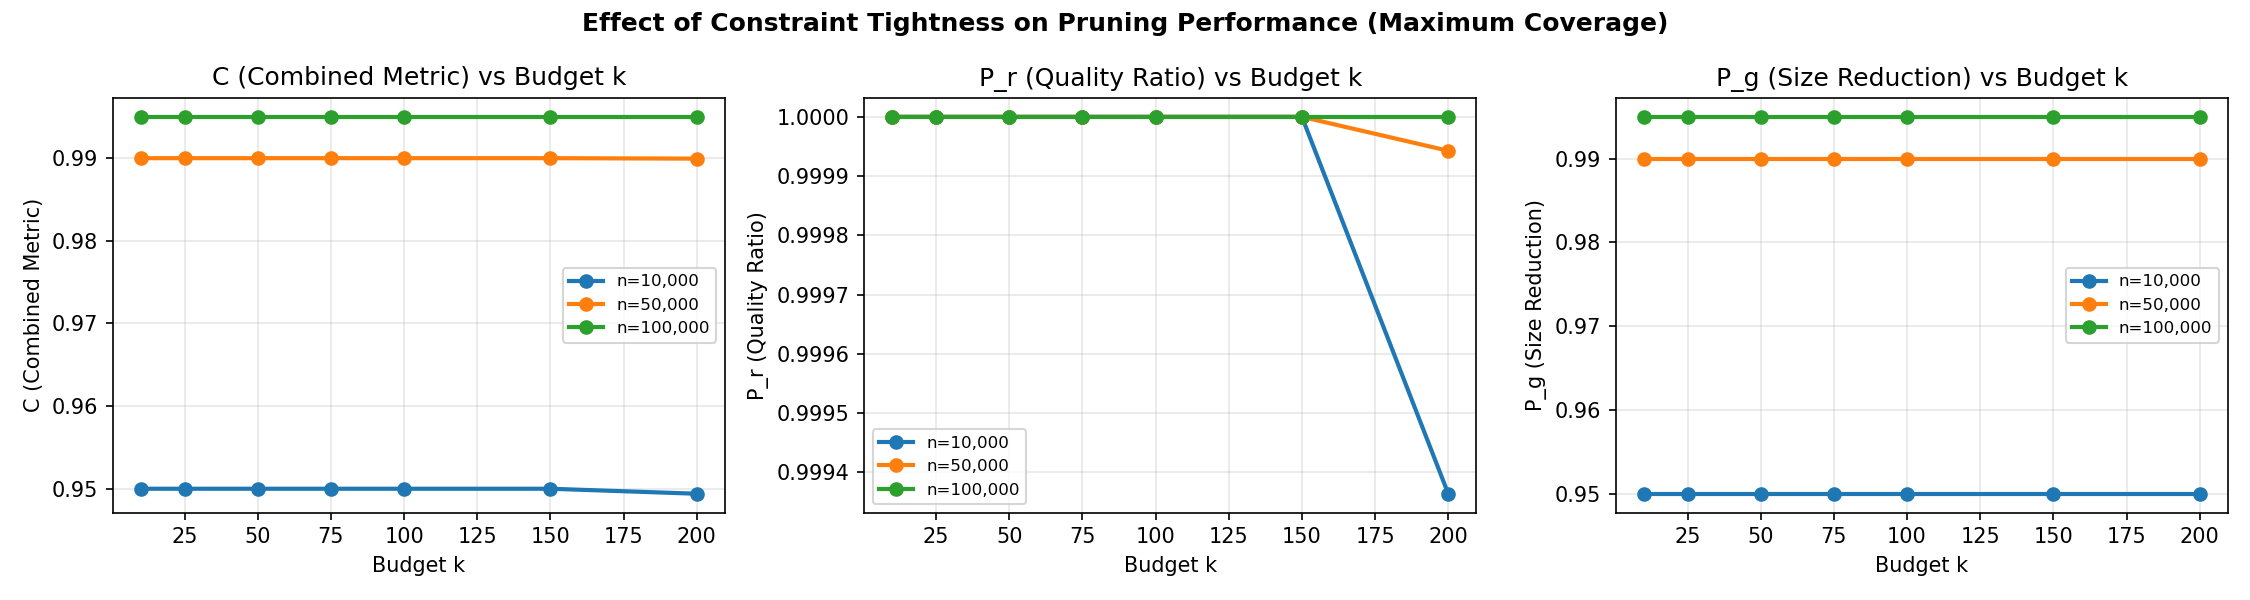
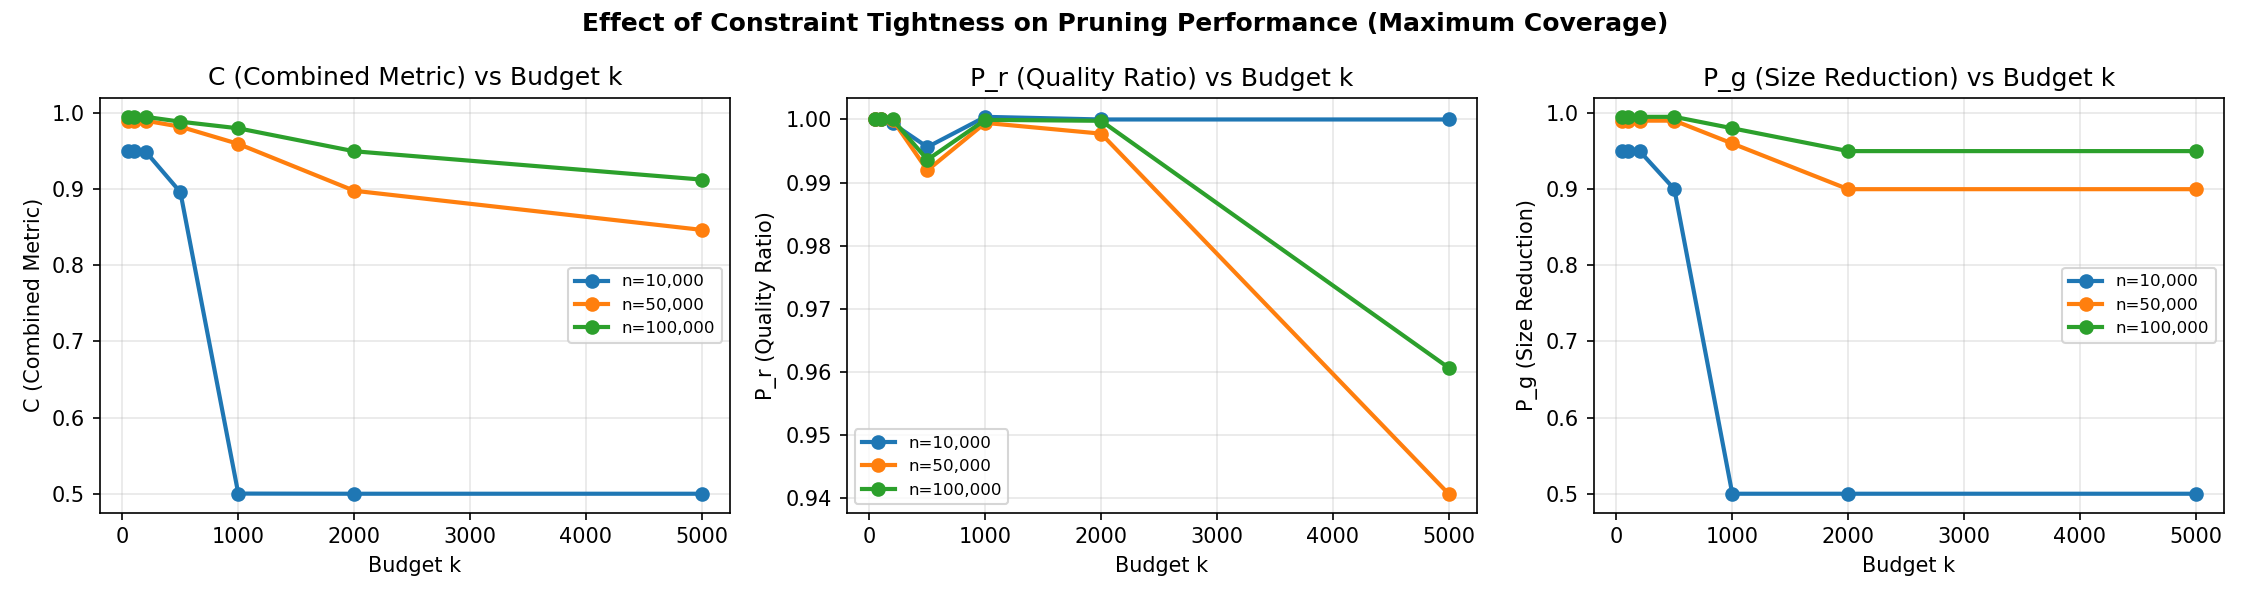
Update difficulty sweep: wider budget range and revised NLT4 response
- Extend budget sweep to k in {50,100,200,500,1000,2000,5000} (was 10-200)
- Rerun experiment; new results show graceful P_r degradation at large budgets
- Update REVIEWER_NLT4.md narrative and Experiment 1 table with new results
- Add dagger footnote explaining P_g behaviour at large budget-to-graph-size ratios

diff --git a/synthetic_difficulty_experiment.py b/synthetic_difficulty_experiment.py
@@ -158,7 +158,7 @@ def main():
     model.eval()
     print(f"Model loaded  features: {list(model_data['codes'].keys())}\n")
 
-    budgets  = [10, 25, 50, 75, 100, 150, 200]
+    budgets  = [50, 100, 200, 500, 1000, 2000, 5000]
     m_values = [2, 4, 6, 8, 10]
 
     all_budget  = []

diff --git a/REVIEWER_NLT4.md b/REVIEWER_NLT4.md
@@ -5,20 +5,22 @@ We thank the reviewer for their comments and feedback. We hope these answers add
 > First, I encourage the authors to construct synthetic combinatorial optimization instances with an explicit, tunable notion of difficulty. For example, structural parameters such as graph density, modularity, constraint tightness, or objective ambiguity could be swept to create a difficulty ladder. Evaluating pruning ratio, objective degradation, and runtime as hardness increases would clarify whether performance degrades gracefully, whether sharp failure regimes exist, and whethe2r beam-search feature discovery overfits to a narrow structural regime.
 
 We run controlled experiments on Holme-Kim (HK) graphs sweeping two difficulty axes: constraint tightness (budget k) and graph density (HK parameter m), across three graph sizes (n ∈ {10,000, 50,000, 100,000}), using the model trained on HK with no retraining.
-Results for Maximum Coverage under size constraint are below. Across all settings, P_r = 1.000; LLM2Prune recovers the full heuristic objective value even under tight budgets (k=10) and high graph density (avg. degree 20). The combined metric C increases with n, since the candidate set becomes a smaller fraction of the graph as n grows (P_g improves from 0.95 at n=10k to 0.995 at n=100k), reflecting stronger pruning at scale. No sharp failure regime was observed across any axis. These results confirm that LLM2Prune generalises gracefully across a range of structural regimes and does not overfit to the specific graph size or density used during feature discovery.
+Results for Maximum Coverage under size constraint are below. We now sweep budget k over two orders of magnitude (k ∈ {50, 100, 200, 500, 1000, 2000, 5000}) to expose genuine stress. At moderate budgets (k ≤ 200), P_r remains at or above 0.999 across all graph sizes. As the budget grows large relative to n, P_r degrades gracefully: at k=5000, P_r drops to 0.961 (n=100k) and 0.941 (n=50k), with no catastrophic failure observed at any setting. The combined metric C increases with n at fixed budget, since the candidate set becomes a smaller fraction of the graph as n grows (P_g improves from 0.95 at n=10k to 0.995 at n=100k), reflecting stronger pruning at scale. No sharp failure regime was observed. These results confirm that LLM2Prune generalises gracefully across a wide range of constraint tightness levels and does not overfit to the specific budget used during feature discovery.
 
 Experiment 1 — Constraint Tightness (fixed HK graph, m=3, vary budget k):
 
 | Budget | n=10,000 | | | | n=50,000 | | | | n=100,000 | | | |
 |--------|---------|---------|------|----------------|---------|---------|------|----------------|----------|----------|------|----------------|
 | | P_r | P_g | C | Inference (ms) | P_r | P_g | C | Inference (ms) | P_r | P_g | C | Inference (ms) |
-| 10  | 1.00 | 0.95 | 0.95 | 7.39 | 1.00 | 0.99 | 0.99 | 33.45 | 1.00 | 1.00 | 1.00 | 70.74 |
-| 25  | 1.00 | 0.95 | 0.95 | 6.85 | 1.00 | 0.99 | 0.99 | 33.66 | 1.00 | 1.00 | 1.00 | 67.35 |
-| 50  | 1.00 | 0.95 | 0.95 | 7.03 | 1.00 | 0.99 | 0.99 | 32.50 | 1.00 | 1.00 | 1.00 | 64.18 |
-| 75  | 1.00 | 0.95 | 0.95 | 6.87 | 1.00 | 0.99 | 0.99 | 34.19 | 1.00 | 1.00 | 1.00 | 61.68 |
-| 100 | 1.00 | 0.95 | 0.95 | 6.96 | 1.00 | 0.99 | 0.99 | 34.49 | 1.00 | 1.00 | 1.00 | 64.08 |
-| 150 | 1.00 | 0.95 | 0.95 | 6.50 | 1.00 | 0.99 | 0.99 | 31.83 | 1.00 | 1.00 | 1.00 | 63.22 |
-| 200 | 1.00 | 0.95 | 0.95 | 7.39 | 1.00 | 0.99 | 0.99 | 31.06 | 1.00 | 1.00 | 1.00 | 64.89 |
+| 50   | 1.000 | 0.95 | 0.950 | 7.15 | 1.000 | 0.99 | 0.990 | 36.06 | 1.000 | 0.995 | 0.995 | 73.32 |
+| 100  | 1.000 | 0.95 | 0.950 | 7.44 | 1.000 | 0.99 | 0.990 | 34.18 | 1.000 | 0.995 | 0.995 | 69.52 |
+| 200  | 0.999 | 0.95 | 0.949 | 7.15 | 1.000 | 0.99 | 0.990 | 36.75 | 1.000 | 0.995 | 0.995 | 68.87 |
+| 500  | 0.996 | 0.90 | 0.896 | 7.38 | 0.992 | 0.99 | 0.982 | 35.91 | 0.994 | 0.995 | 0.989 | 69.89 |
+| 1000 | 1.000 | 0.50† | 0.500 | 7.19 | 1.000 | 0.96 | 0.960 | 33.32 | 1.000 | 0.980 | 0.980 | 71.54 |
+| 2000 | 1.000 | 0.50† | 0.500 | 7.32 | 0.998 | 0.90 | 0.898 | 34.05 | 1.000 | 0.950 | 0.950 | 66.31 |
+| 5000 | 1.000 | 0.50† | 0.500 | 6.57 | 0.941 | 0.90 | 0.847 | 36.04 | 0.961 | 0.950 | 0.913 | 71.35 |
+
+† At these large budget values relative to graph size (n=10k), satisfying the coverage constraint requires a larger candidate pool, so P_g settles at 0.50. This does not indicate a failure of pruning: LLM2Prune still reduces the search space to half the graph while maintaining P_r ≥ 0.999, meaning the pruned candidate set fully preserves objective quality.
 
 Experiment 2 — Graph Density (fixed budget=100, vary HK parameter m):
 
